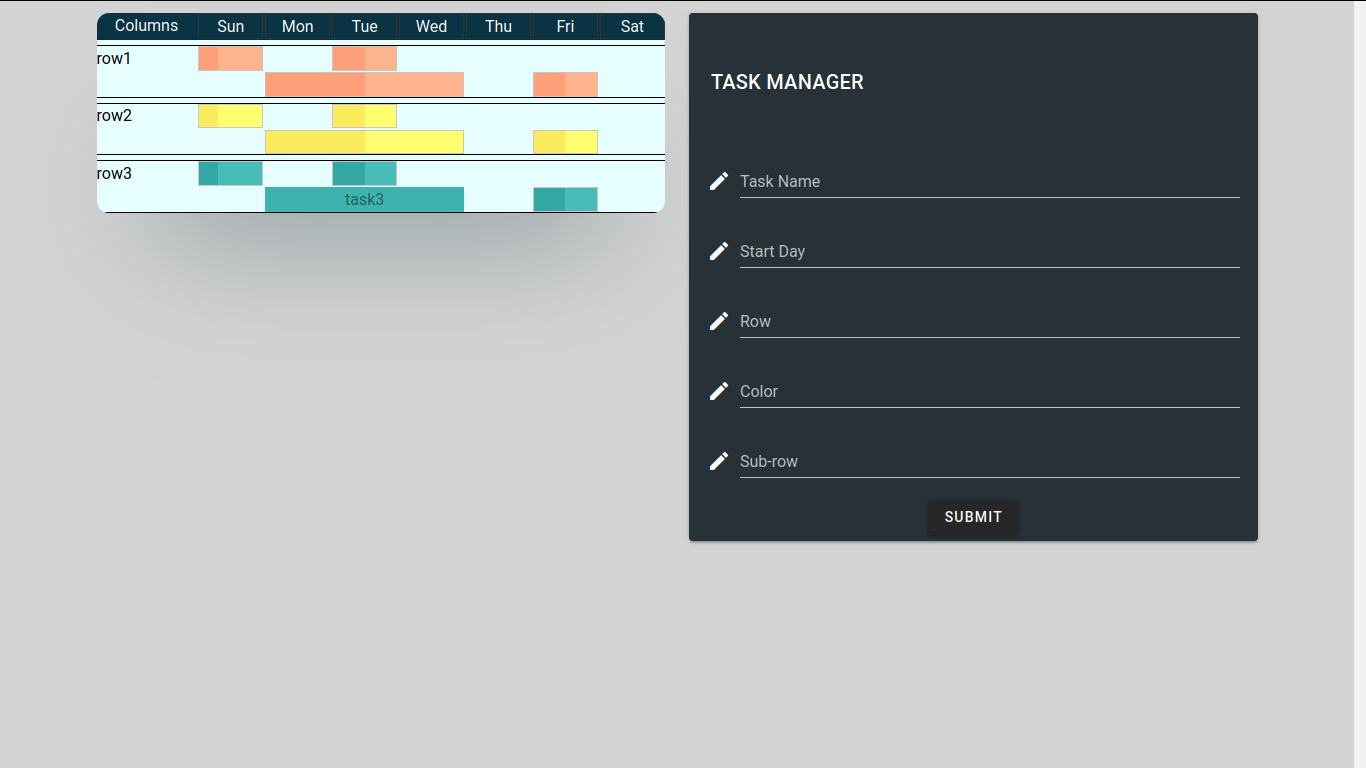
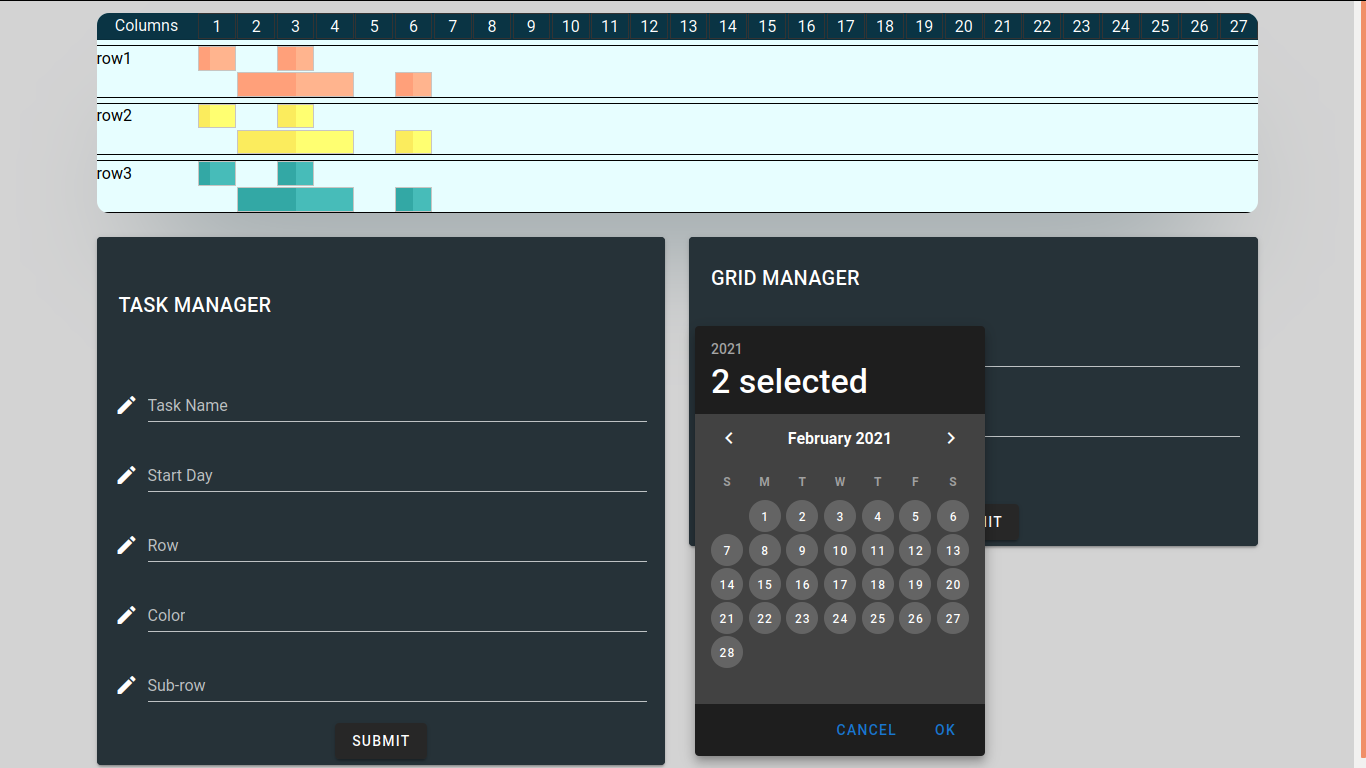
Added dynamic column change on date range change

diff --git a/components/GridManager.vue b/components/GridManager.vue
@@ -1,0 +1,80 @@
+<template>
+  <v-card
+    color="blue-grey darken-4"
+    class="service-item"
+    style="grid-row: 1/2; grid-column: 4/5; display: grid; grid-template-columns: repeat(2, 1fr); grid-template-rows: repeat(4, 1fr); grid-gap: 5px; background-color: #f2f4f7;"
+  >
+    <v-card-title
+      style="grid-row: 1/2; grid-column: 1/3; color: white; text-align: center;"
+    >
+      GRID MANAGER
+    </v-card-title>
+    <v-form class="px-3" ref="form" style="grid-row: 2/5; grid-column: 1/3;">
+      <v-text-field
+        label="Row Name"
+        v-model="rowName"
+        prepend-icon="mdi-pencil"
+      ></v-text-field>
+      <v-text-field
+        label="Row Color"
+        v-model="rowColor"
+        prepend-icon="mdi-pencil"
+      ></v-text-field>
+      <v-row>
+        <DateRangePicker @emitDateRange="acceptDateRange" />
+      </v-row>
+      <v-btn @click="emitRow"> Submit</v-btn>
+    </v-form>
+  </v-card>
+</template>
+
+<style lang="css" scoped>
+.service-item {
+  padding: 5px;
+  text-align: center;
+  border-top: 1px solid #3e2723;
+  border-bottom: 1px solid #3e2723;
+  border-left: 1px solid #3e2723;
+  border-right: 1px solid #3e2723;
+  min-width: 20px;
+  min-height: 30px;
+  color: black;
+}
+</style>
+
+<script>
+import DateRangePicker from "@/components/DateRangePicker";
+export default {
+  data() {
+    return {
+      rowName: "",
+      rowColor: "",
+      rowId: 0,
+      startDate: "",
+      endDate: "",
+      columnSpan: 7
+    };
+  },
+  methods: {
+    emitRow() {
+      this.$emit("addRow", {
+        name: this.rowName,
+        color: this.rowColor,
+        id: this.rowId++
+      });
+      this.rowName = "";
+      this.rowColor = "";
+    },
+    acceptDateRange(dateRange) {
+      this.startDate = dateRange.startDate;
+      this.endDate = dateRange.endDate;
+      this.columnSpan = dateRange.columnSpan;
+      this.$emit("emitDateRange", {
+        startDate: dateRange.startDate,
+        endDate: dateRange.endDate,
+        columnSpan: dateRange.columnSpan
+      });
+    }
+  }
+};
+</script>

diff --git a/components/DateRangePicker.vue b/components/DateRangePicker.vue
@@ -1,0 +1,78 @@
+<template>
+  <v-row>
+    <v-col cols="12" sm="6">
+      <v-menu
+        ref="menu"
+        v-model="menu"
+        :close-on-content-click="false"
+        :return-value.sync="date"
+        transition="scale-transition"
+        offset-y
+        min-width="auto"
+      >
+        <template v-slot:activator="{ on, attrs }">
+          <v-text-field
+            v-model="dateRangeText"
+            prepend-icon="mdi-calendar"
+            readonly
+            v-bind="attrs"
+            v-on="on"
+          ></v-text-field>
+        </template>
+        <v-date-picker v-model="dates" range>
+          <v-spacer></v-spacer>
+          <v-btn text color="primary" @click="menu = false">
+            Cancel
+          </v-btn>
+          <v-btn text color="primary" @click="$refs.menu.save(date)">
+            OK
+          </v-btn>
+        </v-date-picker>
+      </v-menu>
+    </v-col>
+  </v-row>
+</template>
+
+<script>
+import moment from "moment";
+export default {
+  //   props: {
+  //     startDate: {
+  //       type: String
+  //     },
+  //     endDate: {
+  //       type: String
+  //     },
+  //     columnSpan: {
+  //       type: Number
+  //     }
+  //   },
+  data: () => ({
+    // dates: ["2019-09-10", "2019-09-20"],
+    dates: [],
+    date: new Date().toISOString().substr(0, 10),
+    menu: false,
+    modal: false,
+    menu2: false
+  }),
+  computed: {
+    dateRangeText() {
+      if (this.dates.length == 0) {
+        return "Date Range";
+      }
+      var a = moment(this.dates[0]);
+      var b = moment(this.dates[1]);
+      let startDate = a.format("DD-MM-YYYY");
+      let endDate = b.format("DD-MM-YYYY");
+      let columnSpan = Math.abs(a.diff(b, "days"));
+      console.log(columnSpan);
+      this.$emit("emitDateRange", {
+        startDate,
+        endDate,
+        columnSpan
+      });
+      return this.dates.join(" ~ ");
+    }
+  }
+};
+</script>

diff --git a/components/Header.vue b/components/Header.vue
@@ -1,20 +1,23 @@
 <template>
-  <div class="row">
+  <div class="row" :style="cssVars">
     <div class="row-label">Columns</div>
-    <ColumnHeader :name="'Sun'" :gridColumn="2" />
+    <div v-for="i in columnSpan" :key="i">
+      <ColumnHeader :name="i" :gridColumn="i+1"/>
+    </div> 
+    <!-- <ColumnHeader :name="'Sun'" :gridColumn="2" />
     <ColumnHeader :name="'Mon'" :gridColumn="3" />
     <ColumnHeader :name="'Tue'" :gridColumn="4" />
     <ColumnHeader :name="'Wed'" :gridColumn="5" />
     <ColumnHeader :name="'Thu'" :gridColumn="6" />
     <ColumnHeader :name="'Fri'" :gridColumn="7" />
-    <ColumnHeader :name="'Sat'" :gridColumn="8" />
+    <ColumnHeader :name="'Sat'" :gridColumn="8" /> -->
   </div>
 </template>
 
 <style scoped>
 .row {
   display: grid;
-  grid-template-columns: 100px repeat(7, 1fr);
+  grid-template-columns: 100px repeat(var(--grid-column-span), 1fr);
   grid-gap: 0.1em;
   padding: 0em;
   margin: 0px;
@@ -34,5 +37,19 @@
 
 <script>
 import ColumnHeader from "@/components/ColumnHeader";
-export default {};
+export default {
+  props: {
+    columnSpan: {
+      type: Number
+    }
+  },
+  computed: {
+    cssVars() {
+      return {
+        /* variables you want to pass to css */
+        "--grid-column-span": this.columnSpan
+      };
+    }
+  }
+};
 </script>

diff --git a/pages/index.vue b/pages/index.vue
@@ -5,9 +5,14 @@
   </div> -->
   <v-container>
     <v-row>
-      <v-col> <Timeline /></v-col>
+      <v-col> <Timeline :columnSpan="columnSpan" :rows="rows" @emitDateRange="acceptDateRange"/></v-col>
+    </v-row>
+    <v-row>
       <v-col>
         <TaskManager />
+      </v-col>
+      <v-col>
+        <GridManager @addRow="acceptRow"  @emitDateRange="acceptDateRange"/>
       </v-col>
     </v-row>
   </v-container>
@@ -16,11 +21,34 @@
 <script>
 import Timeline from "@/components/Timeline";
 import TaskManager from "@/components/TaskManager";
+import GridManager from "@/components/GridManager";
 
 export default {
+  data() {
+    return {
+      rows: [
+        { name: "row1", color: "#ffa07a" },
+        { name: "row2", color: "#fbec5d" },
+        { name: "row3", color: "#33a8a5" }
+      ],
+      startDate: "",
+      endDate: "",
+      columnSpan: 7
+    };
+  },
   components: {
     Timeline,
     TaskManager
+  },
+  methods: {
+    acceptRow(row) {
+      this.rows.push(row);
+    },
+    acceptDateRange(dateRange) {
+      this.startDate = dateRange.startDate;
+      this.endDate = dateRange.endDate;
+      this.columnSpan = parseInt(dateRange.columnSpan);
+    }
   }
 };
 </script>

diff --git a/components/Timeline.vue b/components/Timeline.vue
@@ -1,10 +1,12 @@
 <template>
   <div class="timeline">
-    <Header />
-    <Row :gridColumnSpan="7" :name="'row1'" :color="'#ffa07a'" />
-    <!-- <Row :gridColumnSpan='7' :name="'row1'" :color="'red'"/> -->
+    <Header :columnSpan="columnSpan" />
+    <!-- <Row :gridColumnSpan="7" :name="'row1'" :color="'#ffa07a'" />
     <Row :gridColumnSpan="7" :name="'row2'" :color="'#fbec5d'" />
-    <Row :gridColumnSpan="7" :name="'row3'" :color="'#33a8a5'" />
+    <Row :gridColumnSpan="7" :name="'row3'" :color="'#33a8a5'" /> -->
+    <div v-for="row in rows" :key="row.name">
+        <Row :gridColumnSpan="columnSpan" :name="row.name" :color="row.color" />
+    </div>
   </div>
 </template>
 
@@ -28,5 +30,21 @@
 <script>
 import Header from "@/components/Header";
 import Row from "@/components/Row";
-export default {};
+export default {
+    props: {
+        rows: {
+            type: Array,
+            required: true
+        },
+        startDate: {
+            type: String
+        },
+        endDate: {
+            type: String
+        },
+        columnSpan: {
+            type: Number
+        }
+    },
+};
 </script>

diff --git a/components/Row.vue b/components/Row.vue
@@ -55,7 +55,8 @@ export default {
     },
     color: {
       type: String
-    }
+    },
+    
   },
   computed: {
     cssVars() {
